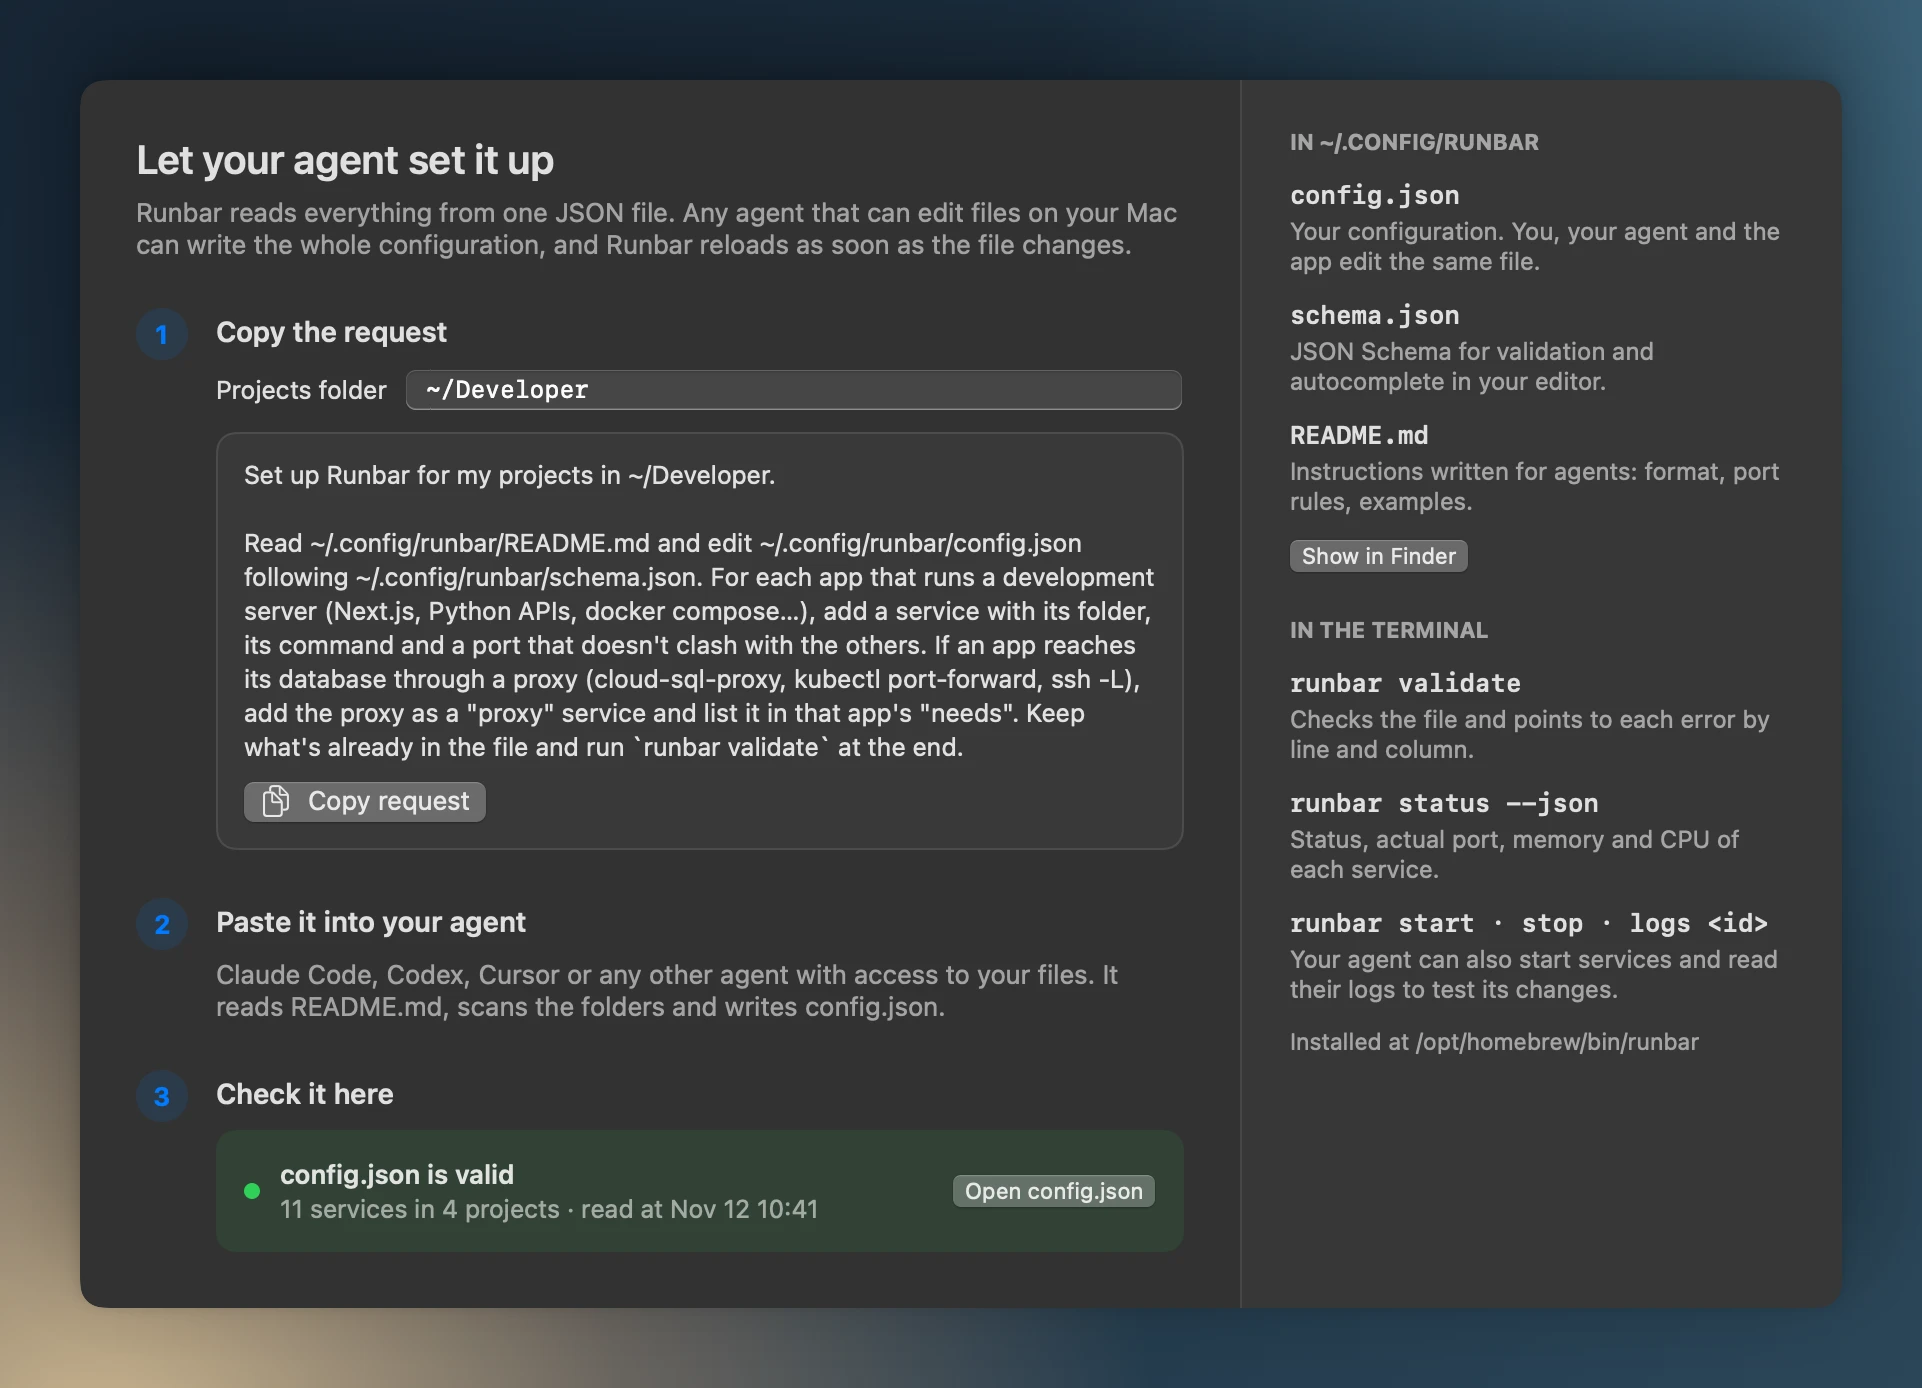
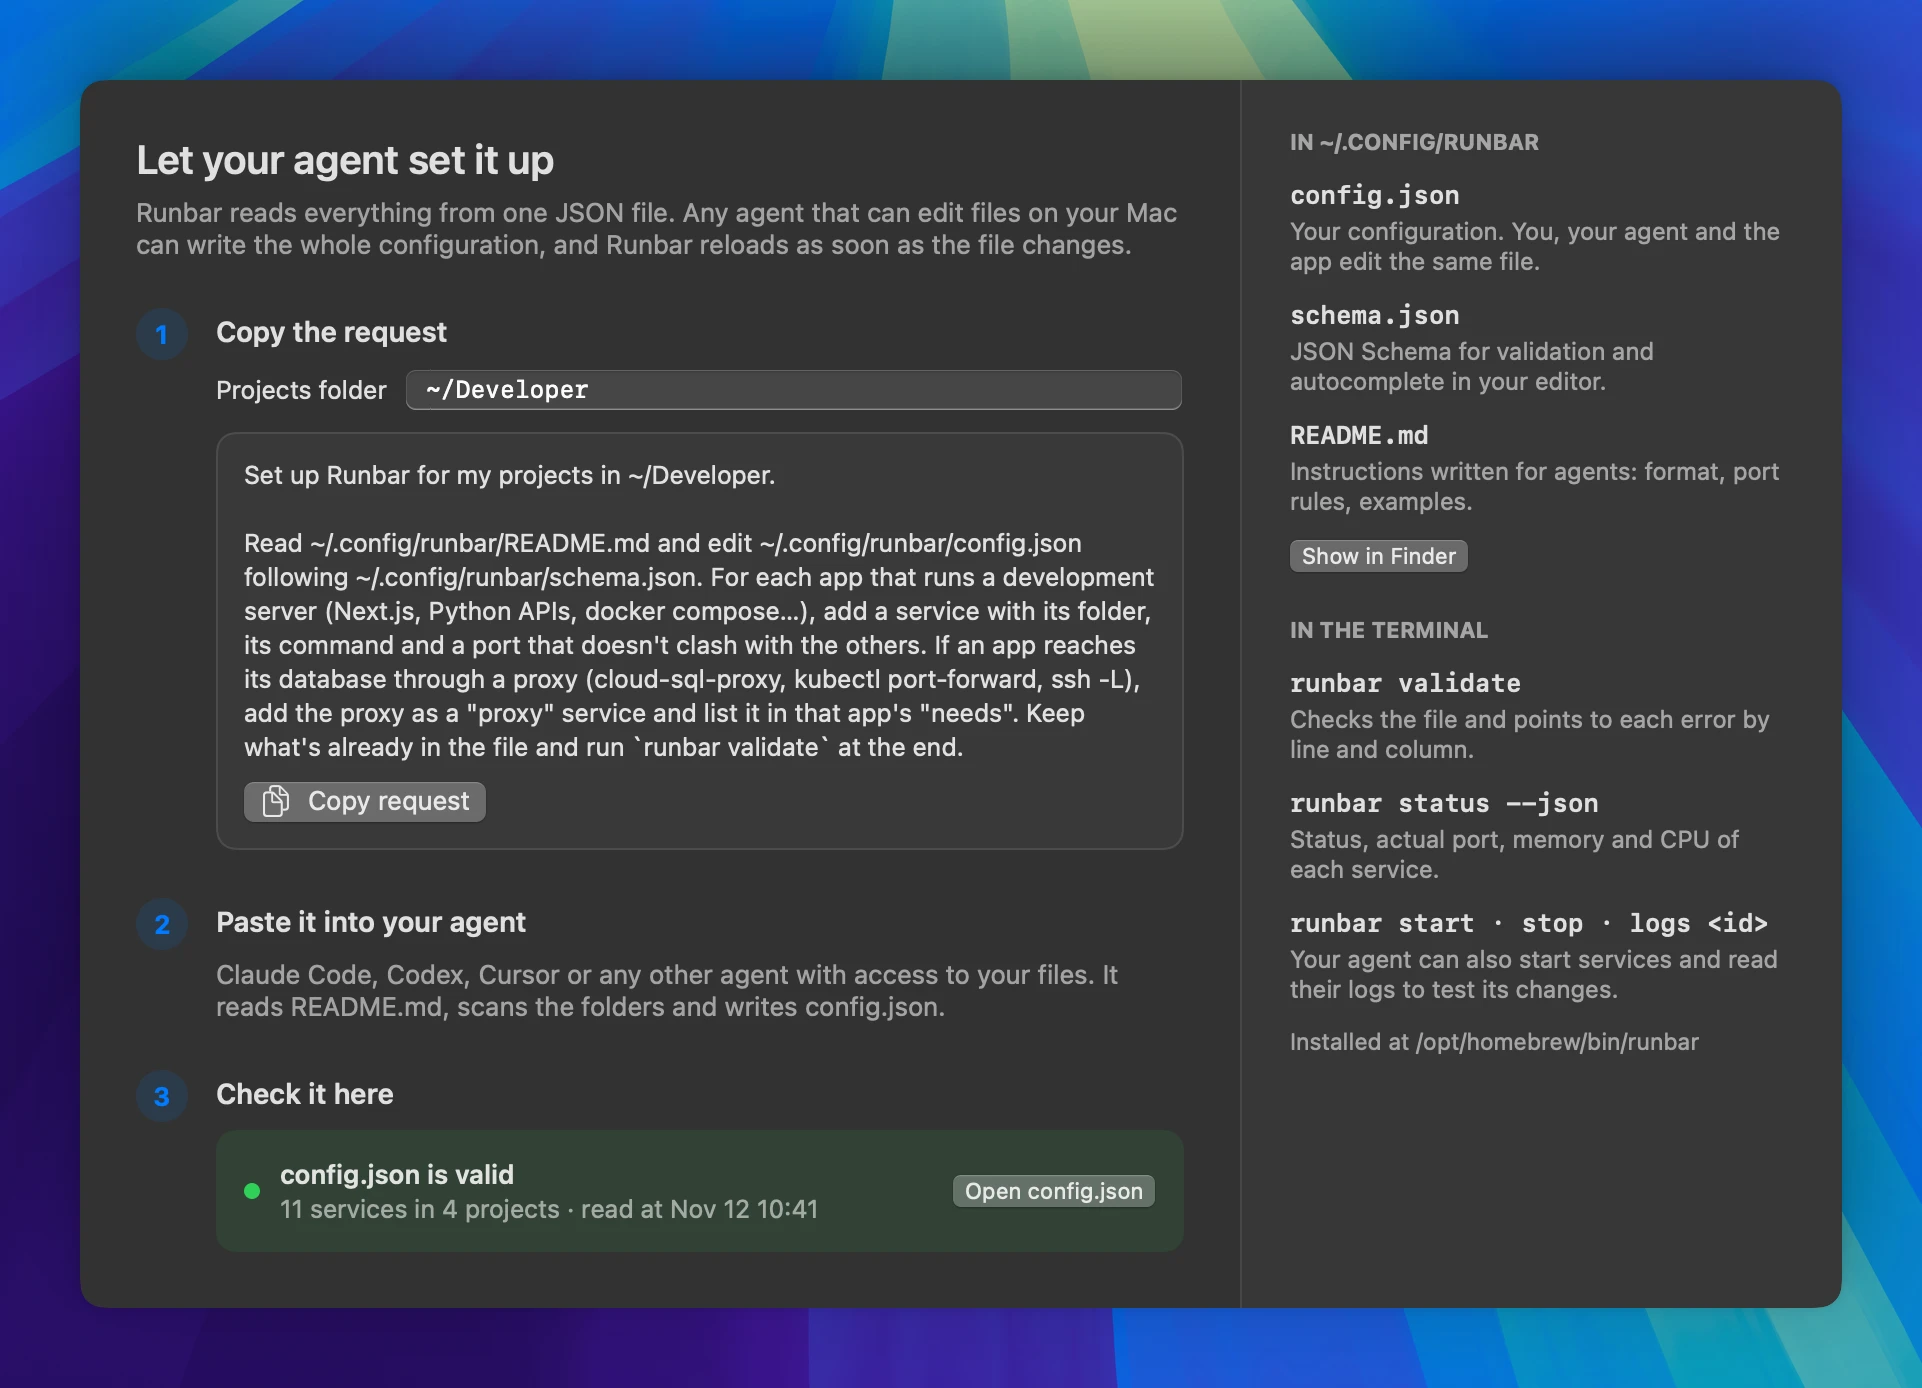
docs(readme): screenshots over macOS Sequoia's wallpaper, every panel the same window
The README's shots draw every panel 740 pt tall (PopoverView's fixedHeight, used only by DemoShots), so the hero's three panels line up and the three smaller shots are the same size. Behind them is macOS Sequoia's wallpaper, light or dark, from WALLPAPER_LIGHT and WALLPAPER_DARK; screenshots.sh takes them from .wallpapers/ by default, kept out of git since the wallpaper is Apple's. Without it the shots draw their own backdrop, as before.

Changed region(s): [[0.0, 0.0, 1.0, 1.0]]

diff --git a/Sources/RunbarApp/DemoShots.swift b/Sources/RunbarApp/DemoShots.swift
@@ -16,10 +16,10 @@ enum DemoShots {
             let suffix = dark ? "dark" : "light"
             DiskModel.shared.confirming = nil
             written.append(render(hero(model), name: "hero-\(suffix)", dir: dir, dark: dark))
-            written.append(render(framed(PopoverView(initialSelection: "elrond-app").environment(model), dark: dark), name: "conflict-\(suffix)", dir: dir, dark: dark))
-            written.append(render(framed(PopoverView(initialSelection: "saruman-db").environment(model), dark: dark), name: "outside-\(suffix)", dir: dir, dark: dark))
+            written.append(render(framed(PopoverView(initialSelection: "elrond-app", fixedHeight: panelHeight).environment(model), dark: dark), name: "conflict-\(suffix)", dir: dir, dark: dark))
+            written.append(render(framed(PopoverView(initialSelection: "saruman-db", fixedHeight: panelHeight).environment(model), dark: dark), name: "outside-\(suffix)", dir: dir, dark: dark))
             DiskModel.shared.confirming = Self.path("fellowship/gandalf-app/node_modules")
-            written.append(render(framed(PopoverView(initialTab: .disk, initialQuery: "node_modules").environment(model), dark: dark), name: "reinstall-\(suffix)", dir: dir, dark: dark))
+            written.append(render(framed(PopoverView(initialTab: .disk, initialQuery: "node_modules", fixedHeight: panelHeight).environment(model), dark: dark), name: "reinstall-\(suffix)", dir: dir, dark: dark))
             DiskModel.shared.confirming = nil
             written.append(render(framed(agentWindow(model), dark: dark, radius: 12), name: "agent-\(suffix)", dir: dir, dark: dark))
         }
@@ -138,12 +138,16 @@ enum DemoShots {
 
     // MARK: - Layouts
 
+    /// Every panel in the README's shots is this tall, whatever it shows: side by side, and from one
+    /// shot to the next, they're the same window.
+    private static let panelHeight: CGFloat = 740
+
     /// The three main views side by side: services, a running service, disk.
     private static func hero(_ model: AppModel) -> some View {
         HStack(alignment: .top, spacing: 36) {
-            panel(PopoverView().environment(model))
-            panel(PopoverView(initialSelection: "gandalf-app").environment(model))
-            panel(PopoverView(initialTab: .disk).environment(model))
+            panel(PopoverView(fixedHeight: panelHeight).environment(model))
+            panel(PopoverView(initialSelection: "gandalf-app", fixedHeight: panelHeight).environment(model))
+            panel(PopoverView(initialTab: .disk, fixedHeight: panelHeight).environment(model))
         }
         .padding(56)
         .background(Wallpaper())
@@ -174,25 +178,46 @@ enum DemoShots {
             .background(Color(nsColor: .windowBackgroundColor))
     }
 
-    /// A desktop behind the panels: dusk in dark mode, a clear sky in light mode.
+    /// Real wallpapers behind the panels, from the image files in `WALLPAPER_LIGHT` and `WALLPAPER_DARK`
+    /// (`make screenshots` passes them on; one alone serves both looks). Without them, `Wallpaper` draws one.
+    private static let wallpapers: (light: NSImage?, dark: NSImage?) = {
+        let env = ProcessInfo.processInfo.environment
+        let light = env["WALLPAPER_LIGHT"].flatMap { NSImage(contentsOfFile: Paths.expand($0)) }
+        let dark = env["WALLPAPER_DARK"].flatMap { NSImage(contentsOfFile: Paths.expand($0)) }
+        return (light ?? dark, dark ?? light)
+    }()
+
+    /// A desktop behind the panels: the wallpaper given, or else dusk in dark mode and a clear sky in light mode.
     private struct Wallpaper: View {
         @Environment(\.colorScheme) private var scheme
 
         var body: some View {
             GeometryReader { geo in
                 let size = geo.size
-                ZStack {
-                    if scheme == .dark {
-                        LinearGradient(colors: [rgb(0x172635), rgb(0x1F3446), rgb(0x2B4658)], startPoint: .topLeading, endPoint: .bottomTrailing)
-                        RadialGradient(colors: [rgb(0xECCE9E).opacity(0.85), rgb(0xD6AA80).opacity(0.4), .clear],
-                                       center: UnitPoint(x: 0.05, y: 1.05), startRadius: 0, endRadius: max(size.width, size.height) * 0.55)
-                        RadialGradient(colors: [rgb(0x568CA8).opacity(0.5), .clear],
-                                       center: UnitPoint(x: 1.05, y: 0.05), startRadius: 0, endRadius: max(size.width, size.height) * 0.5)
-                    } else {
-                        LinearGradient(colors: [rgb(0x8FB9E0), rgb(0xC3D9EE), rgb(0xECEFF3)], startPoint: .topLeading, endPoint: .bottomTrailing)
-                        RadialGradient(colors: [rgb(0xFFD6AA).opacity(0.9), .clear],
-                                       center: UnitPoint(x: 0.08, y: 1.02), startRadius: 0, endRadius: max(size.width, size.height) * 0.55)
-                    }
+                if let image = scheme == .dark ? DemoShots.wallpapers.dark : DemoShots.wallpapers.light {
+                    Image(nsImage: image)
+                        .resizable()
+                        .aspectRatio(contentMode: .fill)
+                        .frame(width: size.width, height: size.height)
+                        .clipped()
+                } else {
+                    drawn(size)
+                }
+            }
+        }
+
+        private func drawn(_ size: CGSize) -> some View {
+            ZStack {
+                if scheme == .dark {
+                    LinearGradient(colors: [rgb(0x172635), rgb(0x1F3446), rgb(0x2B4658)], startPoint: .topLeading, endPoint: .bottomTrailing)
+                    RadialGradient(colors: [rgb(0xECCE9E).opacity(0.85), rgb(0xD6AA80).opacity(0.4), .clear],
+                                   center: UnitPoint(x: 0.05, y: 1.05), startRadius: 0, endRadius: max(size.width, size.height) * 0.55)
+                    RadialGradient(colors: [rgb(0x568CA8).opacity(0.5), .clear],
+                                   center: UnitPoint(x: 1.05, y: 0.05), startRadius: 0, endRadius: max(size.width, size.height) * 0.5)
+                } else {
+                    LinearGradient(colors: [rgb(0x8FB9E0), rgb(0xC3D9EE), rgb(0xECEFF3)], startPoint: .topLeading, endPoint: .bottomTrailing)
+                    RadialGradient(colors: [rgb(0xFFD6AA).opacity(0.9), .clear],
+                                   center: UnitPoint(x: 0.08, y: 1.02), startRadius: 0, endRadius: max(size.width, size.height) * 0.55)
                 }
             }
         }

diff --git a/Sources/RunbarApp/PopoverView.swift b/Sources/RunbarApp/PopoverView.swift
@@ -17,6 +17,9 @@ struct PopoverView: View {
     /// Screenshots: the "ports in use outside Runbar" card open, or a port being moved into Runbar.
     var initialShowOthers = false
     var initialImport: Listener?
+    /// Screenshots: the panel at this height whatever it shows, so shots side by side are the same window.
+    /// What doesn't fit is cut off at the bottom, like a list scrolled to the top.
+    var fixedHeight: CGFloat?
     @ViewState private var tab: PanelTab = .services
     @ViewState private var query = ""
     /// Search is closed until ⌘K, the magnifier or typing opens it in place of the header.
@@ -45,7 +48,7 @@ struct PopoverView: View {
                 list(theme)
             }
         }
-        .frame(width: Layout.width)
+        .frame(width: Layout.width, height: fixedHeight, alignment: .top)
         .rbPanel(theme)
         .environment(\.theme, theme)
         .onAppear {
@@ -127,6 +130,7 @@ struct PopoverView: View {
 
     /// The panel stays within a laptop's height: what sits above the list takes space from it.
     private func listMaxHeight(alerts: Int) -> CGFloat {
+        if let fixedHeight { return fixedHeight }
         var height: CGFloat = 500
         if KeepAwake.shared.isOn { height -= 42 }
         if alerts > 0 { height -= 40 + 51 * CGFloat(alerts) }

diff --git a/README.md b/README.md
@@ -133,7 +133,8 @@ a `runbar` command lets you, and your agent, start, stop and read logs from the 
 
 > [!NOTE]
 > **The screenshots use made-up projects** (Fellowship, Rivendell, Mordor, The Shire). `make screenshots`
-> redraws them from that demo data in `Sources/RunbarApp/DemoShots.swift`, which only debug builds include.
+> redraws them from that demo data in `Sources/RunbarApp/DemoShots.swift`, which only debug builds include,
+> over macOS Sequoia's wallpaper when it's in `.wallpapers/` (see `scripts/screenshots.sh`).
 
 ## Configure it with your agent
 
